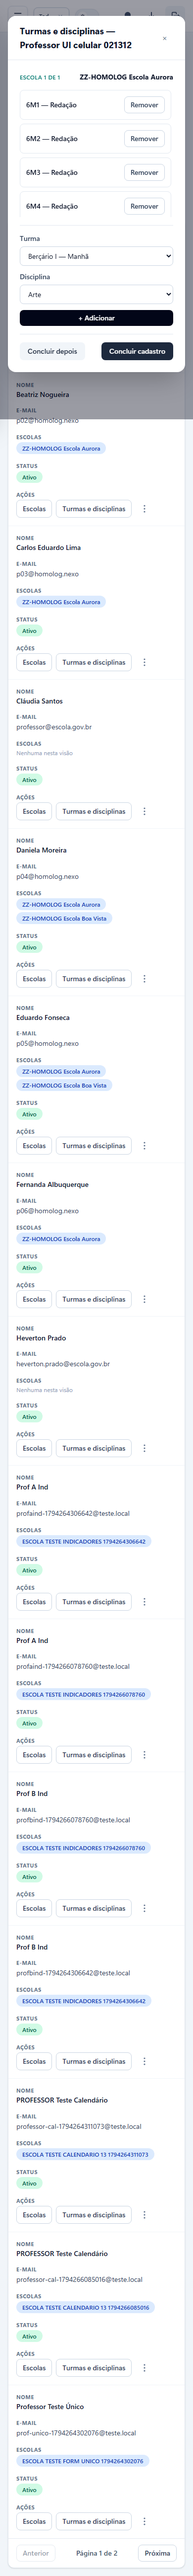
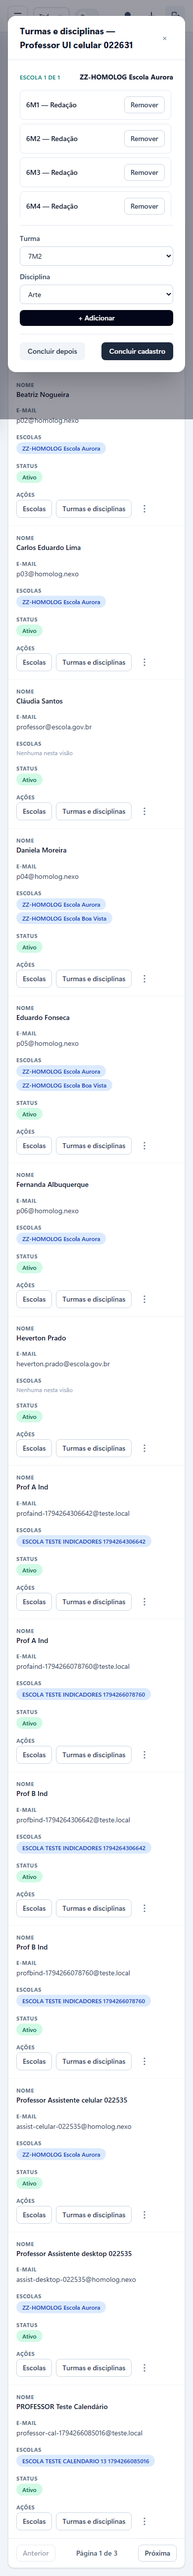
Assistente de vínculos: disciplina já escolhida para a turma some do seletor
O pedido era esconder as DISCIPLINAS já adicionadas para a turma escolhida
(ex.: 6M1 + História -> História some para a 6M1), não a turma. A turma
continua na lista e a disciplina segue disponível para as demais turmas.
Substitui a lógica anterior, que escondia a turma.

Teste em navegador real (desktop e celular, conferido no banco): 8/8.
Roteiro 40 ajustado para escolher turma e disciplina a cada vínculo: 9/9.

diff --git a/src/pages/GestaoPessoas.jsx b/src/pages/GestaoPessoas.jsx
@@ -365,10 +365,11 @@ const VinculosWizardCriacaoProfessor = ({ professor, escolas, disciplinasReais, 
 
   const escolaAtual = escolas[indice];
   const turmasDaEscola = turmas.filter(turma => turma.status === 'ativa' && turma.escolaId === escolaAtual.id);
-  // Turma já adicionada COM A DISCIPLINA escolhida some do seletor. Continua disponível para outra
-  // disciplina (um professor pode ter várias disciplinas na mesma turma — ex.: Arte e Inglês no 6M1).
+  // Disciplina já adicionada PARA A TURMA escolhida some do seletor de disciplinas (pedido do
+  // usuário: "coloquei 6M1 com História → História some"). A turma continua na lista (o professor
+  // pode ter outras disciplinas nela) e a disciplina continua disponível para as outras turmas.
   const jaAdicionado = (turmaId, disciplinaId) => vinculosAdicionados.some(vinculo => vinculo.turmaId === Number(turmaId) && vinculo.disciplinaId === Number(disciplinaId));
-  const turmasDisponiveis = turmasDaEscola.filter(turma => !jaAdicionado(turma.id, novoVinculo.disciplinaId));
+  const disciplinasDisponiveis = disciplinasReais.filter(disciplina => !jaAdicionado(novoVinculo.turmaId, disciplina.id));
 
   useEffect(() => {
     setNovoVinculo({ turmaId: turmasDaEscola[0]?.id ?? '', disciplinaId: disciplinasReais[0]?.id ?? '' });
@@ -376,11 +377,12 @@ const VinculosWizardCriacaoProfessor = ({ professor, escolas, disciplinasReais, 
     setErro('');
   }, [indice]); // eslint-disable-line react-hooks/exhaustive-deps
 
-  // Se a turma selecionada acabou de ser adicionada (ou a disciplina mudou), pula para a próxima disponível.
+  // Se a disciplina selecionada acabou de ser adicionada para esta turma (ou a turma mudou e ela já
+  // está lá), pula para a próxima disciplina disponível.
   useEffect(() => {
-    if (turmasDisponiveis.some(turma => turma.id === Number(novoVinculo.turmaId))) return;
-    setNovoVinculo(prev => ({ ...prev, turmaId: turmasDisponiveis[0]?.id ?? '' }));
-  }, [vinculosAdicionados, novoVinculo.disciplinaId]); // eslint-disable-line react-hooks/exhaustive-deps
+    if (disciplinasDisponiveis.some(disciplina => disciplina.id === Number(novoVinculo.disciplinaId))) return;
+    setNovoVinculo(prev => ({ ...prev, disciplinaId: disciplinasDisponiveis[0]?.id ?? '' }));
+  }, [vinculosAdicionados, novoVinculo.turmaId]); // eslint-disable-line react-hooks/exhaustive-deps
 
   const adicionar = async (event) => {
     event.preventDefault();
@@ -436,16 +438,16 @@ const VinculosWizardCriacaoProfessor = ({ professor, escolas, disciplinasReais, 
           <form onSubmit={adicionar} className="flex flex-col gap-3 border-t border-slate-200 pt-4 sm:flex-row sm:items-end">
             <div className="flex-1"><FormField label="Turma">
               <select className={inputClass} value={novoVinculo.turmaId} onChange={event => setNovoVinculo(prev => ({ ...prev, turmaId: event.target.value }))}>
-                {turmasDisponiveis.length === 0 && <option value="" disabled>Todas as turmas já têm esta disciplina</option>}
-                {turmasDisponiveis.map(turma => <option key={turma.id} value={turma.id}>{turma.nome}</option>)}
+                {turmasDaEscola.map(turma => <option key={turma.id} value={turma.id}>{turma.nome}</option>)}
               </select>
             </FormField></div>
             <div className="flex-1"><FormField label="Disciplina">
               <select className={inputClass} value={novoVinculo.disciplinaId} onChange={event => setNovoVinculo(prev => ({ ...prev, disciplinaId: event.target.value }))}>
-                {disciplinasReais.map(disciplina => <option key={disciplina.id} value={disciplina.id}>{disciplina.nome}</option>)}
+                {disciplinasDisponiveis.length === 0 && <option value="" disabled>Todas as disciplinas já adicionadas nesta turma</option>}
+                {disciplinasDisponiveis.map(disciplina => <option key={disciplina.id} value={disciplina.id}>{disciplina.nome}</option>)}
               </select>
             </FormField></div>
-            <Button type="submit" size="sm" disabled={salvando || !novoVinculo.turmaId}>{salvando ? 'Adicionando...' : '+ Adicionar'}</Button>
+            <Button type="submit" size="sm" disabled={salvando || !novoVinculo.turmaId || !novoVinculo.disciplinaId}>{salvando ? 'Adicionando...' : '+ Adicionar'}</Button>
           </form>
         )}
 

diff --git a/CLAUDE_CONTEXT.md b/CLAUDE_CONTEXT.md
@@ -2244,3 +2244,4 @@ Por isso, antes de executar qualquer mudança sensível, confirmar o estado real
     - não fecham mais por clique fora **nem pela tecla Esc**; só pelo "×" ou pelos botões do conteúdo;
     - altura limitada à tela (`max-h: 100dvh - 4rem`), com rolagem interna no conteúdo e o overlay rolável como reserva.
   - **Teste:** `homologacao/40-ajustes-telas-secretaria.mjs`, navegador real, desktop e celular, banco local: **13/13**. Inclui confirmação no banco de que fechar sem confirmar não altera vínculos e de que os vínculos criados pelo assistente não duplicam.
+- **Assistente de vínculos corrigido conforme o usuário explicou (branch `fix/assistente-disciplinas-por-turma`):** o pedido "turmas já selecionadas devem desaparecer" era, na verdade, que as **disciplinas já escolhidas para aquela turma** sumissem (ex.: depois de 6M1 + História, História some para a 6M1). A turma continua na lista e a disciplina continua disponível para as outras turmas. Substitui a lógica anterior, que escondia a turma. O botão Adicionar fica desabilitado sem turma ou disciplina. Teste `42-assistente-disciplinas-por-turma.mjs`: **8/8** (desktop e celular, conferido no banco, sem duplicar). O roteiro 40 foi ajustado (a parte 4 agora escolhe turma e disciplina a cada vínculo, para não substituir professores no banco local): 9/9; os resultados antigos UI-SEC-4a/4b saíram da matriz.
